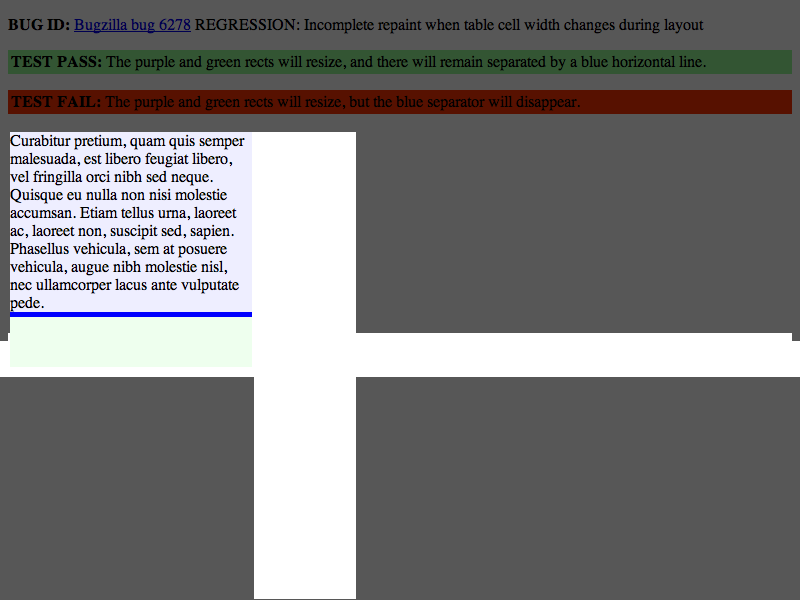
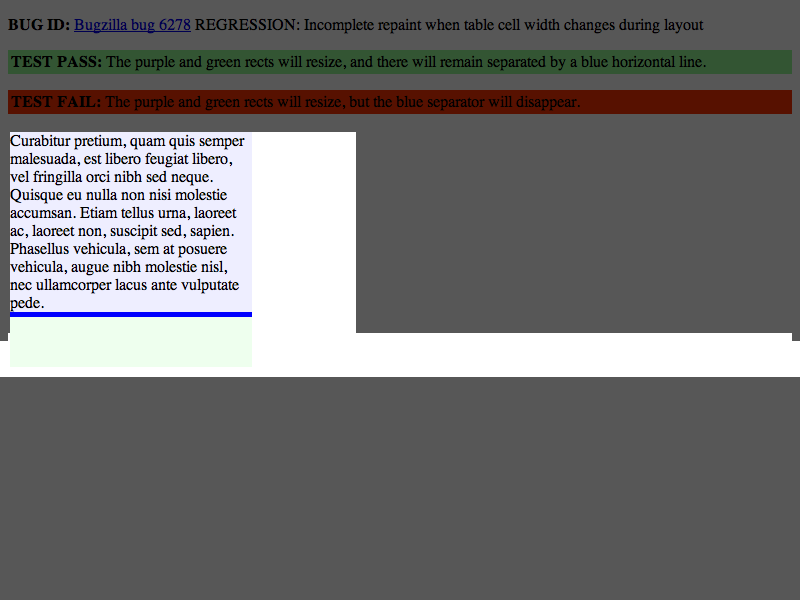
2006-04-28  Mitz Pettel  <opendarwin.org@mitzpettel.com>
Reviewed by hyatt, landed by ap.

WebCore:
        - fix http://bugzilla.opendarwin.org/show_bug.cgi?id=6769
          REGRESSION: Incomplete repaint when a cell's extra bottom margin grows

        Test: fast/repaint/table-extra-bottom-grow.html

        * rendering/RenderBlock.cpp:
        (WebCore::RenderBlock::overflowRect): Changed to not add the top/left overflow twice and
        allow the normal overflow height to overlap with the bottom extra height.
        * rendering/RenderTableRow.cpp:
        (WebCore::RenderTableRow::layout): Removed the code that resets the extra heights.
        * rendering/RenderTableSection.cpp:
        (WebCore::RenderTableSection::layoutRows): If the top extra height changed or the
        bottom extra height increased, just repaint the entire cell.

LayoutTests:
        * fast/repaint/table-extra-bottom-grow-expected.checksum: Added.
        * fast/repaint/table-extra-bottom-grow-expected.png: Added.
        * fast/repaint/table-extra-bottom-grow-expected.txt: Added.
        * fast/repaint/table-extra-bottom-grow.html: Added.
        * fast/repaint/table-cell-moved-expected.checksum: Removed excessive painting.
        * fast/repaint/table-cell-moved-expected.png: Ditto.
        * fast/repaint/bugzilla-6278-expected.checksum: Ditto.
        * fast/repaint/bugzilla-6278-expected.png: Ditto.

Identifier: 11929@main
git-svn-id: https://svn.webkit.org/repository/webkit/trunk@14101 268f45cc-cd09-0410-ab3c-d52691b4dbfc

Changed region(s): [[0.3125, 0.63, 0.4688, 1.0]]

diff --git a/LayoutTests/fast/repaint/table-extra-bottom-grow.html b/LayoutTests/fast/repaint/table-extra-bottom-grow.html
@@ -1,0 +1,39 @@
+<!DOCTYPE HTML PUBLIC "-//W3C//DTD HTML 4.01//EN"
+        "http://www.w3.org/TR/html4/strict.dtd">
+<html lang="en">
+<head>
+<script src="repaint.js"></script>
+<script>
+    function repaintTest()
+    {
+        document.getElementById("t").style.height='100px';
+        document.getElementById("s").style.height='0';
+    }
+</script>
+</head>
+<body onload="runRepaintTest();">
+<p><b>BUG ID:</b> <a href="http://bugzilla.opendarwin.org/show_bug.cgi?id=6769">Bugzilla bug 6769</a> REGRESSION: Incomplete repaint when a cell's extra bottom margin grows</p>
+
+<p id="success" style="background-color:palegreen; padding:3px;"><b>TEST PASS:</b> 
+There should be only a green square below, and no red.
+</p>
+
+<p id="failure" style="background-color:#FF3300; padding:3px;"><b>TEST FAIL:</b>  
+The lower-right quarter of the square will be red.
+</p>
+
+<table style="background: green;" cellspacing="0" cellpadding="0">
+    <tr>
+        <td style="height: 100px; width: 50px;" rowspan="2">
+        </td>
+        <td style="width: 50px; vertical-align: top; background: green; height: 50px;" id="t">
+        </td>
+    </tr>
+    <tr>
+        <td style="background: red;"></td>
+    </tr>
+</table>
+
+</body>
+</html>
+

diff --git a/WebCore/rendering/RenderTableSection.cpp b/WebCore/rendering/RenderTableSection.cpp
@@ -488,18 +488,17 @@ int RenderTableSection::layoutRows(int toAdd)
                 }
             }
             if (cellChildrenFlex) {
-                cell->setOverrideSize(max(0, 
-                                           rHeight - cell->borderTop() - cell->paddingTop() - 
-                                                     cell->borderBottom() - cell->paddingBottom()));
-                cell->layoutIfNeeded();
-
                 // Alignment within a cell is based off the calculated
                 // height, which becomes irrelevant once the cell has
                 // been resized based off its percentage. -dwh
                 cell->setCellTopExtra(0);
                 cell->setCellBottomExtra(0);
-            }
-            else {
+
+                cell->setOverrideSize(max(0, 
+                                           rHeight - cell->borderTop() - cell->paddingTop() - 
+                                                     cell->borderBottom() - cell->paddingBottom()));
+                cell->layoutIfNeeded();
+            } else {
                 EVerticalAlign va = cell->style()->verticalAlign();
                 int te = 0;
                 switch (va) {
@@ -523,8 +522,14 @@ int RenderTableSection::layoutRows(int toAdd)
                         break;
                 }
                 
+                int oldTe = cell->borderTopExtra();
+                int oldBe = cell->borderBottomExtra();
+                
+                int be = rHeight - cell->height() - te;
                 cell->setCellTopExtra(te);
-                cell->setCellBottomExtra(rHeight - cell->height() - te);
+                cell->setCellBottomExtra(be);
+                if (!table()->selfNeedsLayout() && cell->checkForRepaintDuringLayout() && (te != oldTe || be > oldBe))
+                    cell->repaint();
             }
             
             int oldCellX = cell->xPos();

diff --git a/WebCore/rendering/RenderBlock.cpp b/WebCore/rendering/RenderBlock.cpp
@@ -363,7 +363,7 @@ IntRect RenderBlock::overflowRect(bool includeInterior) const
         return borderBox();
     int l = overflowLeft(includeInterior);
     int t = min(overflowTop(includeInterior), -borderTopExtra());
-    return IntRect(l, t, overflowWidth(includeInterior) - 2*l, overflowHeight(includeInterior) + borderTopExtra() + borderBottomExtra() - 2*t);
+    return IntRect(l, t, overflowWidth(includeInterior) - l, max(overflowHeight(includeInterior), height() + borderBottomExtra()) - t);
 }
 
 bool RenderBlock::isSelfCollapsingBlock() const

diff --git a/WebCore/rendering/RenderTableRow.cpp b/WebCore/rendering/RenderTableRow.cpp
@@ -111,8 +111,6 @@ void RenderTableRow::layout()
             if (child->needsLayout()) {
                 cell->calcVerticalMargins();
                 cell->layout();
-                cell->setCellTopExtra(0);
-                cell->setCellBottomExtra(0);
             }
         }
     }
